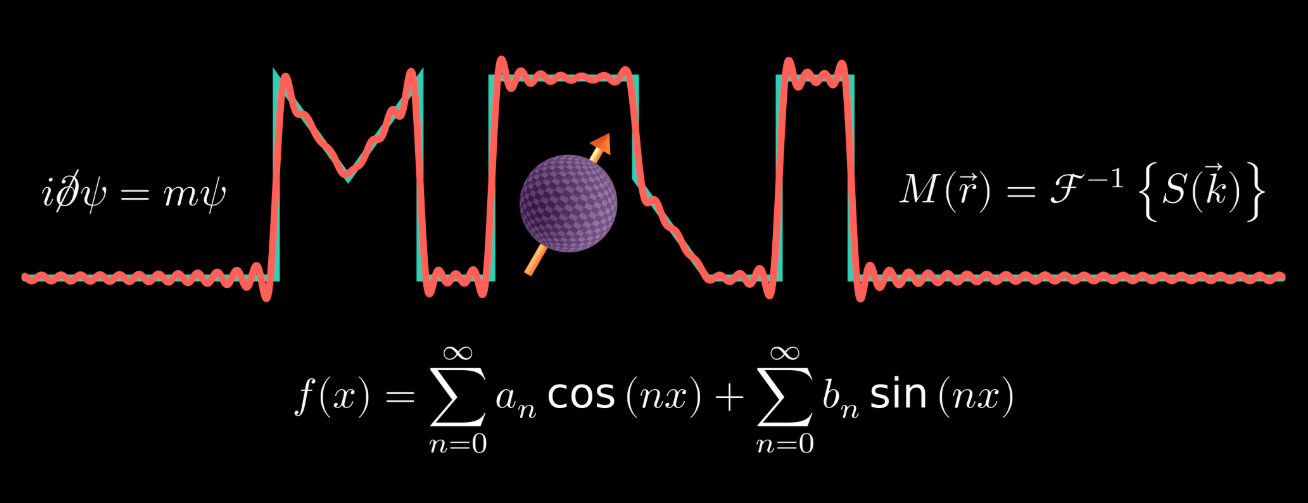
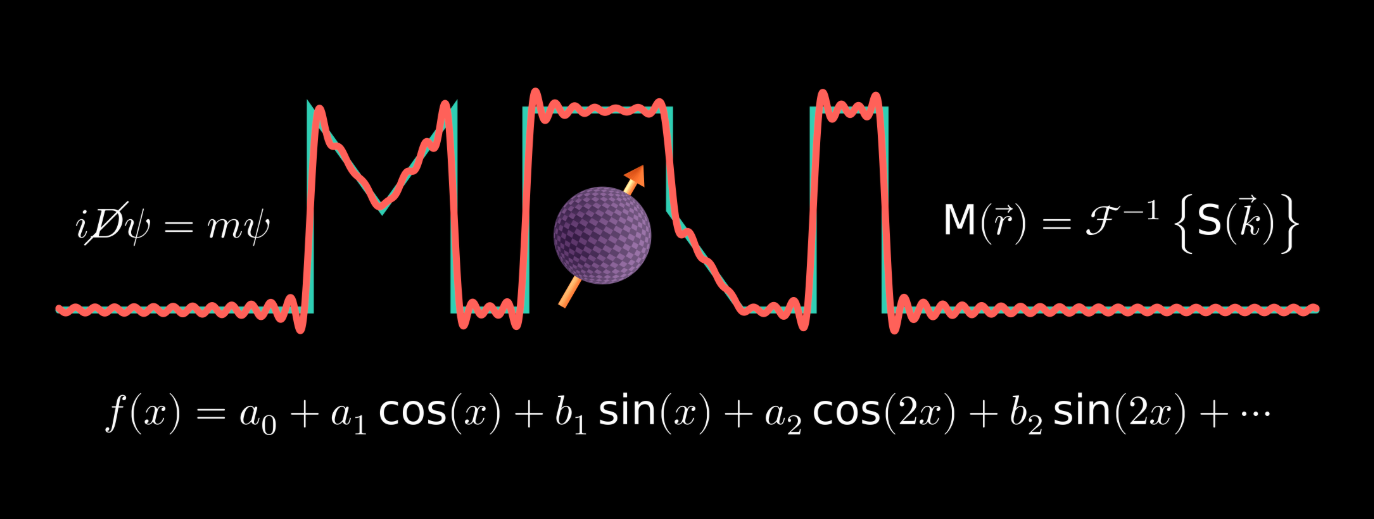
minor edits

Changed region(s): [[0.0, 0.1193, 1.0, 0.6561], [0.0612, 0.6859, 0.9174, 0.8946]]

diff --git a/_posts/2026-02-27-aomp-001-q.md b/_posts/2026-02-27-aomp-001-q.md
@@ -22,7 +22,7 @@ unlisted: false
 This is the first challenge in the AoMP series, in which I present a set of artifacts that I stumbled upon during my research.
 
 
-> TL;DR: In this challenge, you will learn about the classic artifacts in radial MRI. You will also encounter a so-called “mysterious” artifact. By solving this challenge, you will gain deep intuition about the physics behind these artifacts and how to mitigate them. The knowledge and intuition you gain are not only useful for radial MRI, but also for understanding MRI physics, other MRI artifacts, and signal processing and engineering more broadly.
+> TL;DR: In this challenge, you will learn about the classic artifacts in radial MRI. You will also encounter a so-called “mysterious” artifact. By solving this challenge, you will gain deep intuition about the physics and mathematics behind these artifacts and how to mitigate them. The knowledge and intuition you gain are not only useful for radial MRI, but also for understanding MRI physics, other MRI artifacts, and signal processing and engineering more broadly.
 
 If you have any suggestions or feedback, I would love to hear from you.
 
@@ -47,9 +47,9 @@ With the improvement in hardware and reconstruction algorithms, radial MRI has b
 
 Clinically, radial MRI has been used in liver MRI to reduce motion artifacts and capture the dynamic contrast enhancement of liver lesions. It also has been used in musculoskeletal MRI to generate CT-like contrast via ultrashort echo time (UTE) and zero echo time (ZTE) imaging. 
 
-Although not strictly radial, the PROPELLER/BLADE/JET MRI acquisition scheme, which samples k-space in a rotating fashion, has been widely used in brain and body MRI to reduce motion artifacts, where the artifacts are similar to those in radial MRI.
+PROPELLER/BLADE/JET MRI acquisition scheme has been widely used in clinical MRI to reduce motion artifacts. Although not strictly radial, the PROPELLER/BLADE/JET acquires k-space data in a rotating-blade fashion, leading to the similar artifacts as in radial MRI.
 
-In this post, we will challenge you to identify the causes of the classic artifacts in radial MRI and propose solutions to mitigate them. During the process, we will also re-discover a mysterious artifact and strategy to mitigate it.
+In this post, we will challenge you to identify the causes of the classic artifacts in radial MRI and propose solutions to mitigate them. During the process, we will also re-discover a mysterious artifact associated with iterative reconstruction and strategy to mitigate it.
 
 ## The "Halo" Artifact
 

diff --git a/_drafts/2026-02-01-aomp-000-q.md b/_drafts/2026-02-01-aomp-000-q.md
@@ -15,7 +15,7 @@ selected_post: true
 unlisted: false
 ---
 
-> “The mission of the Art of MRI Physics (AoMP) is to produce original, academically rigorous content in physics, mathematics, signal processing, Fourier analysis, and MRI physics, presented with clarity so that complex ideas become accessible and illuminating.”
+> “The mission of the Art of MRI Physics (AoMP) is to produce original, rigorous content in physics, mathematics, signal processing, Fourier analysis, and MRI physics, presented with clarity so that complex ideas become accessible and illuminating.”
 > <p style="font-size: 1.0em; font-style: normal; text-align: right;">-- The Art of MRI Physics (AoMP) </p>
 
 
@@ -29,6 +29,7 @@ Below is the AoMP's official trailer (**sound on**). Can you tell:
 
 + **What the heck are these?**
 + **What do they have to do with MRI?**
++ **Bonus question: What is the hidden “thread” woven all these concepts together?**
 
 I’d love to hear your solutions and thoughts. You can share them in any of the following ways:
 
